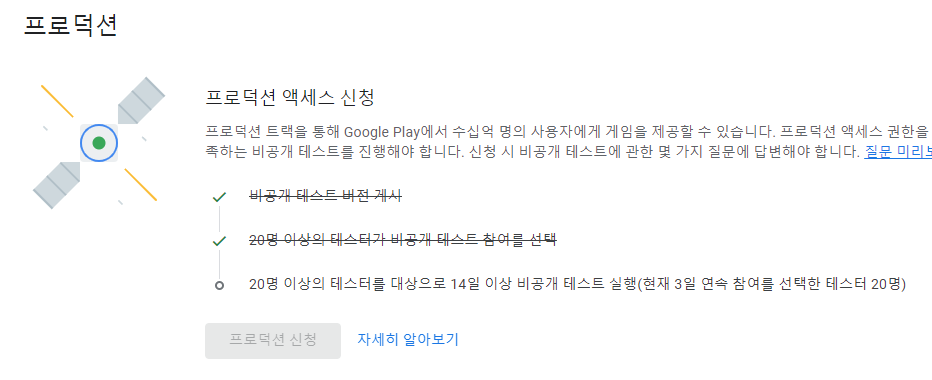
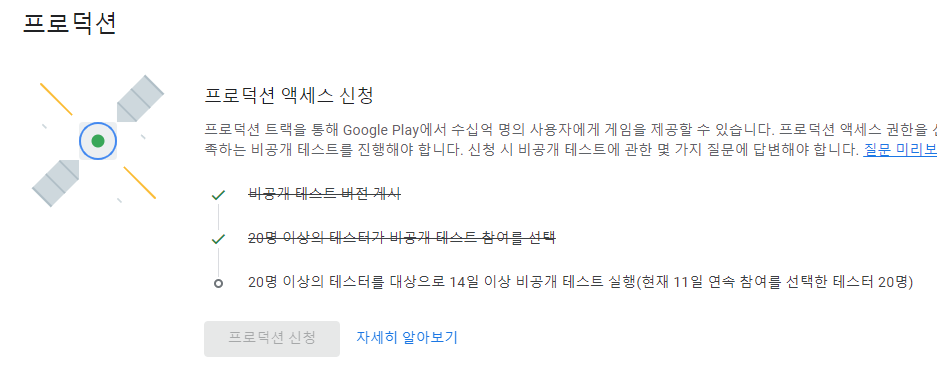
add post proj2-09

diff --git a/posts/_posts/diary/proj2/2024-01-24-proj2-09.md b/posts/_posts/diary/proj2/2024-01-24-proj2-09.md
@@ -1,0 +1,148 @@
+---
+layout: post
+title: "피격 시스템. 그리고 작업하고 있는 것들"
+date: 2024-1-24
+tag: "diary"
+categories: diary
+usemathjax: true
+
+related:    proj_02
+---
+
+시간이 엄청 많이 지났네요.  
+파일들을 정리하는 김에 지금까지 만들었던 게임들을 모아서 블로그에 올렸습니다. 
+완성했다고 생각되는 게임만 일단 올렸는데, 미완성 게임도 언젠가 정리해서 올릴까 싶습니다. :)
+
+<h3>피격 시스템</h3>
+
+<div class="screenshot-list">
+    <figure>
+        <img class="title-image" src="{{ site.image_location }}/diary/proj2_diary/09/proto.gif" alt="prototype">
+    </figure>
+    <figure>
+        <img class="title-image" src="{{ site.image_location }}/diary/proj2_diary/09/motion.gif" alt="motion">
+    </figure>
+</div>
+
+이 시스템을 만들기 위해서 공격 모션 몇 개 그리느라 이틀 날렸습니다. 매번 생각하지만 모션 그리는 데 시간이 제일 많이 소요되는 것 같네요.
+
+<figure>
+    <img class="title-image" src="{{ site.image_location }}/diary/proj2_diary/09/attack.gif" alt="attack">
+</figure>
+
+간단하게 구현한 피격 시스템. 시퀀스에서 히트박스 오브젝트를 끄고 키는 방법으로 구현했습니다. 잘 작동하지만 아직 효과가 없어서 밋밋하네요.
+
+<br/>
+<br/>
+
+<h3>fake 3D 기능 최적화</h3>
+
+<figure>
+    <img class="title-image" src="{{ site.image_location }}/diary/proj2_diary/09/fake_3D.gif" alt="fake 3d">
+</figure>
+
+fake 3D 관련 코드들을 대폭 수정했습니다. 
+하나의 텍스쳐에 스프라이트를 몽땅 집어넣고 한 번에 계산해버리면 
+시간을 대폭 줄일 수 있다는 것을 알아냈죠. 함수를 호출하는 횟수도 줄일 수 있고요.
+
+<figure>
+    <img class="title-image" src="{{ site.image_location }}/diary/proj2_diary/09/fake3d.png" alt="debug">
+</figure>
+
+원래 3ms 정도 소요했었는데 0.3ms 이내로 계산을 마치는 것을 확인할 수 있었습니다. 
+이 정도면 부담없이 게임에 적용시킬 수 있습니다.
+
+CPU와 GPU 사이의 딜레이를 생각하지 않고 코드를 작성한게 문제였나 봅니다.
+
+<figure>
+    <img class="title-image" src="{{ site.image_location }}/diary/proj2_diary/09/syringe.png" alt="syringe">
+</figure>
+
+눈치채셨겠지만 주인공의 무기는 바로 주사기입니다. 무기마다 특수한 공격을 할 수 있도록 만들 예정입니다.
+
+<br/>
+<br/>
+
+<h3>혈흔 효과</h3>
+
+<div class="screenshot-list">
+    <figure>
+        <img class="title-image" src="{{ site.image_location }}/diary/proj2_diary/09/ink.gif" alt="ink">
+    </figure>
+    <figure>
+        <img class="title-image" src="{{ site.image_location }}/diary/proj2_diary/09/ink2.gif" alt="ink">
+    </figure>
+</div>
+
+혈흔 효과를 만들었습니다. 짧고 강렬하게! 만들려고 노력했습니다.
+
+<figure>
+    <img class="title-image" src="{{ site.image_location }}/diary/proj2_diary/09/ink3.gif" alt="ink">
+</figure>
+
+게임에 적용한 모습입니다. 완성은 아니지만 꽤 그럴듯하게 보이네요.  
+
+새로 만들었던 것들 fake3d와 혈흔 효과를 적용하는데 정말 애먹었습니다. 
+생각할 수 있는 모든 예외 처리 코드를 작성하는게 쉽지 않더군요...
+
+<br/>
+<br/>
+
+<h3>잡다한 소식들</h3>
+
+> 이제 CROSSROAD를 모바일에서 즐겨보아요
+
+<figure>
+    <img class="title-image" src="{{ site.image_location }}/diary/proj2_diary/09/crossroad.png" alt="crossroad app">
+</figure>
+
+지금 CROSSROAD 게임을 구글 스토어에 올려볼려고 시도 중입니다. 
+
+<figure>
+    <img class="title-image" src="{{ site.image_location }}/diary/proj2_diary/09/status.png" alt="status">
+</figure>
+
+친구들 총동원시켜서 20명의 테스터 겨우 모았네요. (모두 고마워!)  
+별일 없다면 조만간 정식으로 등록될 듯합니다 :D
+
+<br/>
+
+> 블로그 주소 변경
+
+<figure>
+    <img class="title-image" src="{{ site.image_location }}/diary/proj2_diary/09/new_address.png" alt="new address">
+</figure>
+
+블로그 주소가 변경되었습니다!  
+도메인 하나 구매해서 적용했습니다. 블로그가 이뻐진 느낌이라 기분이 상당히 좋네요. XD
+
+앞으로 이 주소로 놀러와주세요!  
+[attic.with-1f.work](https://attic.with-1f.work)
+
+<br/>
+
+> 이미지 보기 방식
+
+<figure>
+    <img class="title-image" src="{{ site.image_location }}/diary/proj2_diary/09/blog_image.png" alt="blog image">
+</figure>
+
+이제 블로그에서 사진을 누르면 디바이스 크기에 맞춰서 최대한 크게 볼 수 있습니다. 모바일에서도 작동합니다!
+
+<br/>
+<br/>
+
+<h3>다음 목표</h3>
+
+<figure>
+    <img class="title-image" src="{{ site.image_location }}/diary/proj2_diary/09/apply_motion.gif" alt="motion">
+</figure>
+
+캐릭터 모션을 그리면서 이벤트 관련 시스템을 구축할까 싶네요. 이것까지 구현이 된다면 어느정도 워크플로우가 안정화될 것 같습니다.
+
+<br/>
+<br/>
+<br/>
+
+매번 찾아와주셔서 정말 감사합니다.  
+모두 즐거운 밤 되시길!
